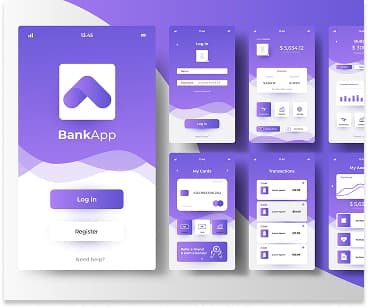
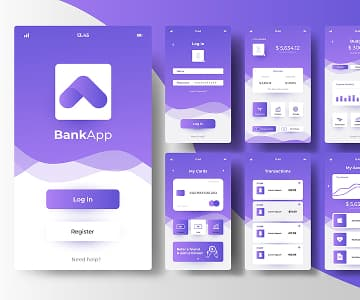
fix

diff --git a/css/styles.css b/css/styles.css
@@ -13,6 +13,7 @@ ul {
 
 a {
   text-decoration: none;
+  display: inline-block;
 }
 
 button {
@@ -59,10 +60,6 @@ img {
   overflow: hidden;
 }
 
-a {
-  display: inline-block;
-}
-
 /* ---------------HEADER------------- */
 
 .header {
@@ -70,10 +67,12 @@ a {
 }
 .header-navigation {
   display: flex;
+  align-items: center;
 }
 
 .container-nav-address {
   display: flex;
+  align-items: center;
 }
 .header-logo {
   font-family: 'Raleway', sans-serif;
@@ -83,10 +82,7 @@ a {
   letter-spacing: 0.03em;
   text-transform: uppercase;
   margin-right: 76px;
-}
-
-.header-navigation {
-  align-items: center;
+  color: #2e2f42;
 }
 
 .header-logo-color {
@@ -163,7 +159,7 @@ a {
   color: #fff;
   max-width: 496px;
   margin: 0 auto;
-  padding-bottom: 48px;
+  margin-bottom: 48px;
 }
 
 .hero-btn {
@@ -176,6 +172,7 @@ a {
   align: center;
   display: block;
   margin: 0 auto;
+  padding: 16px 32px;
   min-width: 169px;
   height: 56px;
   border: none;
@@ -226,7 +223,7 @@ a {
   letter-spacing: 0.02em;
   text-align: center;
   color: #2e2f42;
-  margin: 72px;
+  margin-bottom: 72px;
 }
 
 .team-list {
@@ -247,7 +244,7 @@ a {
   letter-spacing: 0.02em;
   text-align: center;
   color: #2e2f42;
-  margin: 8px;
+  margin-bottom: 8px;
 }
 .team-text {
   font-weight: 400;
@@ -283,7 +280,7 @@ a {
   column-gap: 24px;
 }
 .portfolio-item {
-  width: ((100% - 72px) / 4);
+  width: calc((100% - 48px) / 3);
 }
 .portfolio-images {
 }

diff --git a/index.html b/index.html
@@ -13,7 +13,7 @@
     <link rel="preconnect" href="https://fonts.googleapis.com" />
     <link rel="preconnect" href="https://fonts.gstatic.com" crossorigin />
     <link
-      href="https://fonts.googleapis.com/css2?family=Raleway:ital,wght@700&family=Roboto:wght@400;500;700&display=swap"
+      href="https://fonts.googleapis.com/css2?family=Raleway:wght@700&family=Roboto:wght@400;500;700&display=swap"
       rel="stylesheet"
     />
     <link rel="stylesheet" href="./css/styles.css" />
